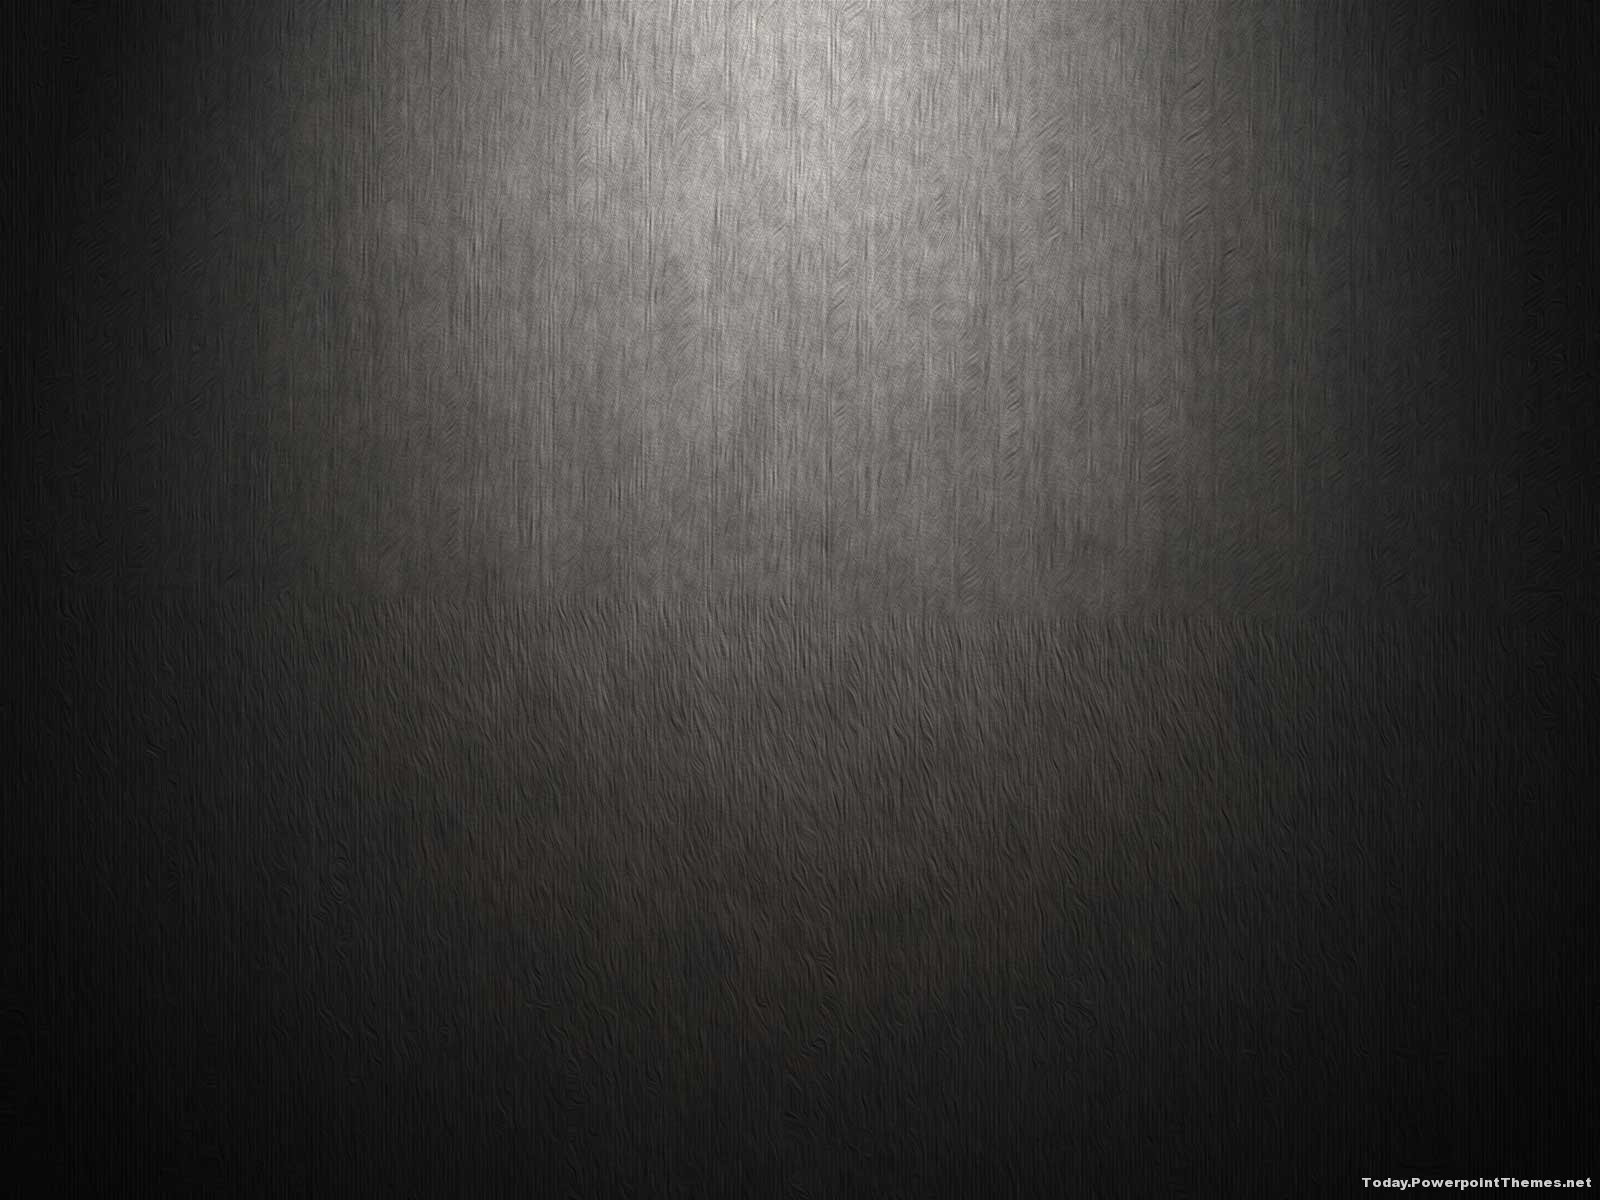
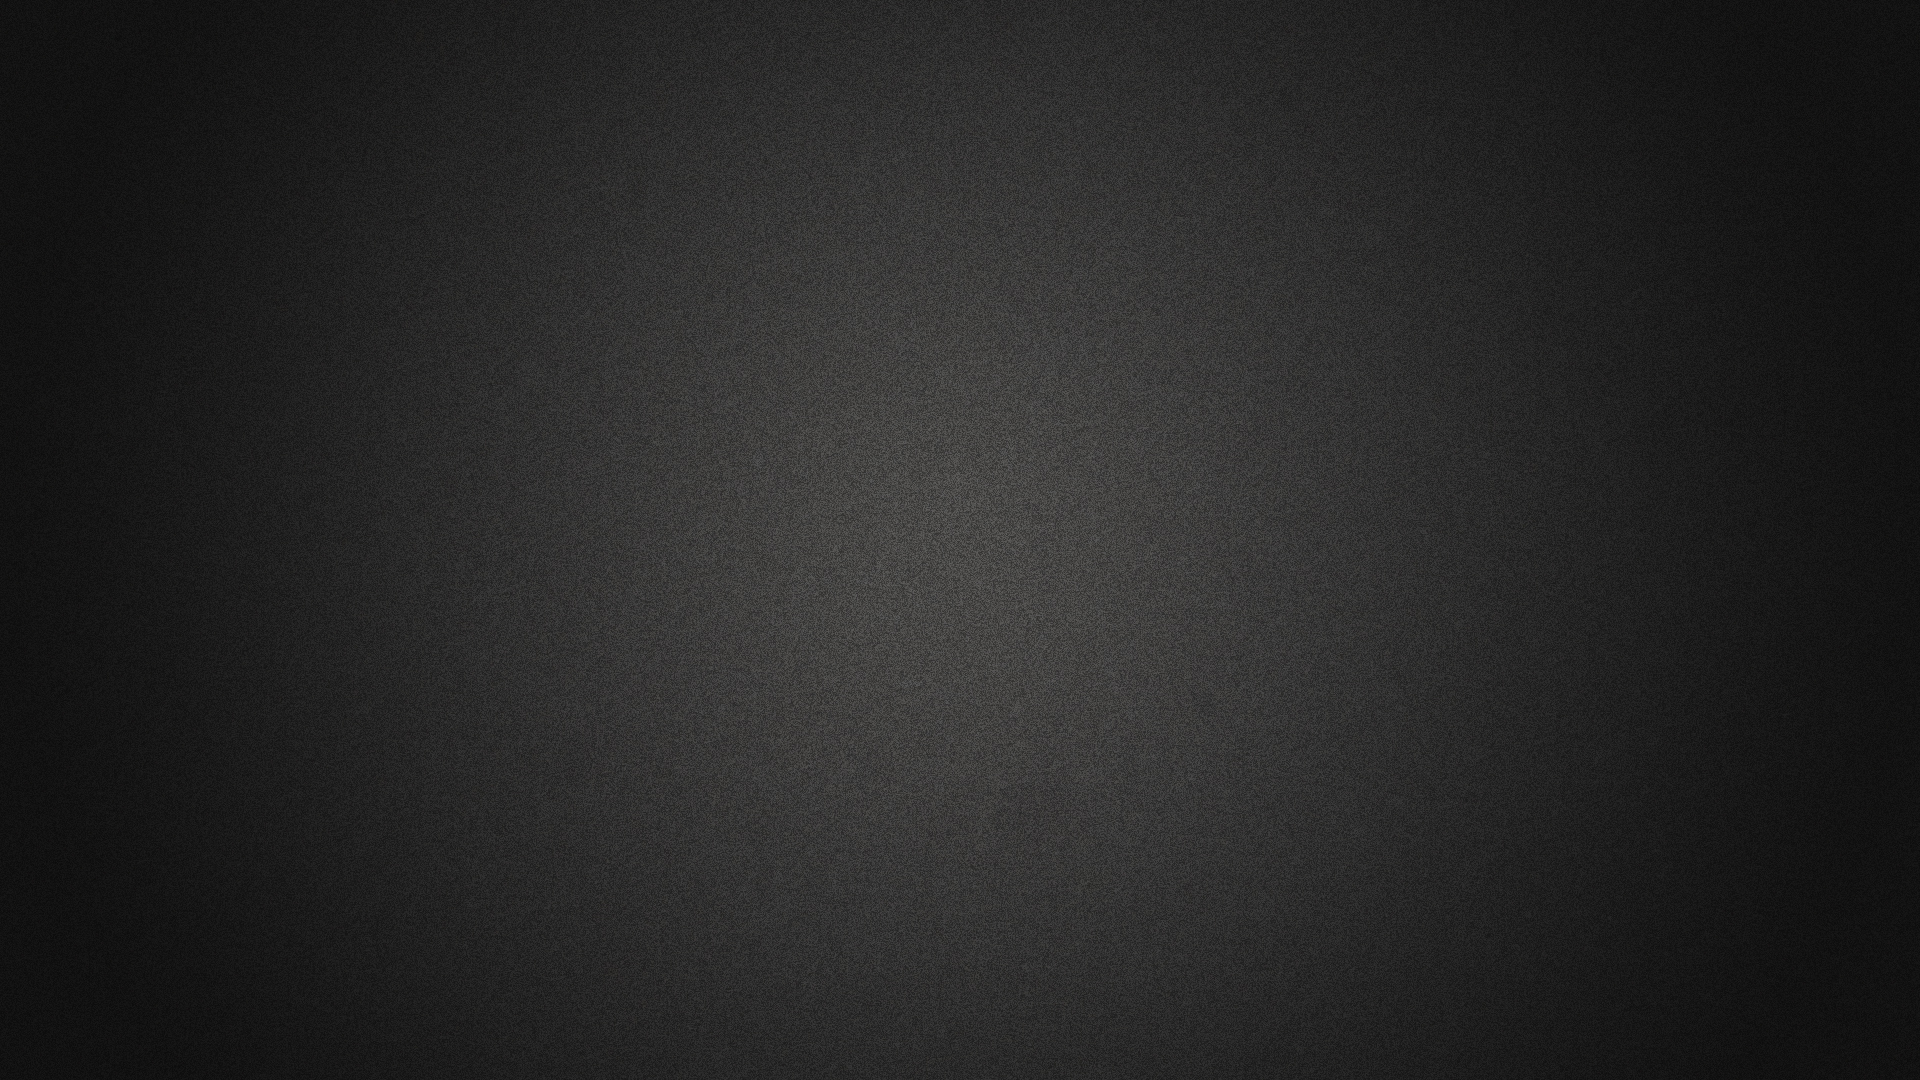
ipad version fix

diff --git a/assets/css/style.css b/assets/css/style.css
@@ -12,6 +12,7 @@ body {
 
 .memory-game-cointainer {
   background-image: url('../images/background.jpg');
+  background-size: cover;
   height: 100vh;
   width: 100vw;
 }
@@ -169,8 +170,51 @@ main {
 .continue {
   margin-top: 3vh;
 }
+@media only screen and (max-height: 1366px) {
+  .card-container .card {
+    height: 30%;
+    width: 14%;
+  }
 
-@media only screen and (max-width: 375px) {
+  aside {
+    width: 30%;
+  }
+}
+
+@media only screen and (max-width: 768px) {
+  .card-container .card {
+    height: 15%;
+    width: 30%;
+  }
+
+  aside {
+    width: 40%;
+  }
+}
+
+@media only screen and (max-width: 736px) {
+  .card-container .card {
+    height: 31%;
+    width: 14%;
+  }
+
+  aside {
+    width: 40%;
+  }
+}
+
+@media only screen and (max-width: 667px) {
+  aside {
+    width: 25%;
+  }
+
+  .card-container .card {
+    height: 30%;
+    width: 14%;
+  }
+}
+
+@media only screen and (max-width: 414px) {
   aside {
     width: 100%;
   }
@@ -264,7 +308,108 @@ main {
   }
 
   main {
-    height: 76vh;
+    height: 73vh;
+  }
+
+  .modal-content {
+    width: 100vw;
+  }
+}
+
+@media only screen and (max-width: 320px) {
+  aside {
+    width: 100%;
+  }
+
+  .play-body {
+    flex-wrap: wrap;
+  }
+
+  header {
+    font-size: 1.5rem;
+    height: 4vh;
+  }
+
+  .bar {
+    font-size: 0.8rem;
+  }
+
+  .stats {
+    display: none;
+  }
+
+  .game-times {
+    width: 30%;
+  }
+
+  .game-numbers {
+    width: 5%;
+  }
+
+  .attempts {
+    width: 20%;
+  }
+
+  .attempts-number {
+    width: 5%;
+  }
+
+  .accuracy {
+    width: 20%;
+  }
+
+  .accuracy-number {
+    width: 15%;
+  }
+
+  .start {
+    width: 50%;
+    margin-top: 0;
+  }
+
+  .new {
+    width: 50%;
+    margin-top: 0;
+  }
+
+  .timer {
+    width: 100%;
+    margin-top: 0;
+  }
+
+  .pause {
+    width: 50%;
+    margin-top: 0;
+  }
+
+  .continue {
+    width: 50%;
+    margin-top: 0;
+  }
+
+  .bar button {
+    margin-top: 0;
+    font-size: 1.8vh;
+  }
+
+  .bar-container .bar:nth-child(9) {
+    justify-content: center;
+    font-size: 2rem;
+    margin-top: 0;
+  }
+
+  .card-container {
+    align-content: flex-start;
+    margin-top: 10px;
+  }
+
+  .card-container .card {
+    height: 15%;
+    width: 29%;
+  }
+
+  main {
+    height: 71vh;
   }
 
   .modal-content {
